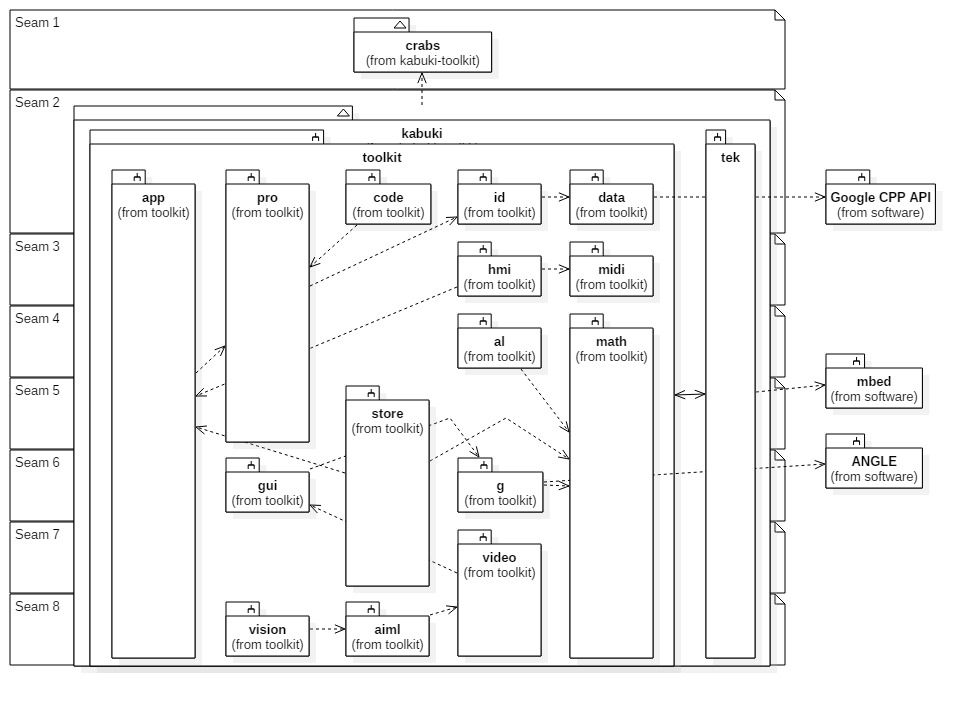
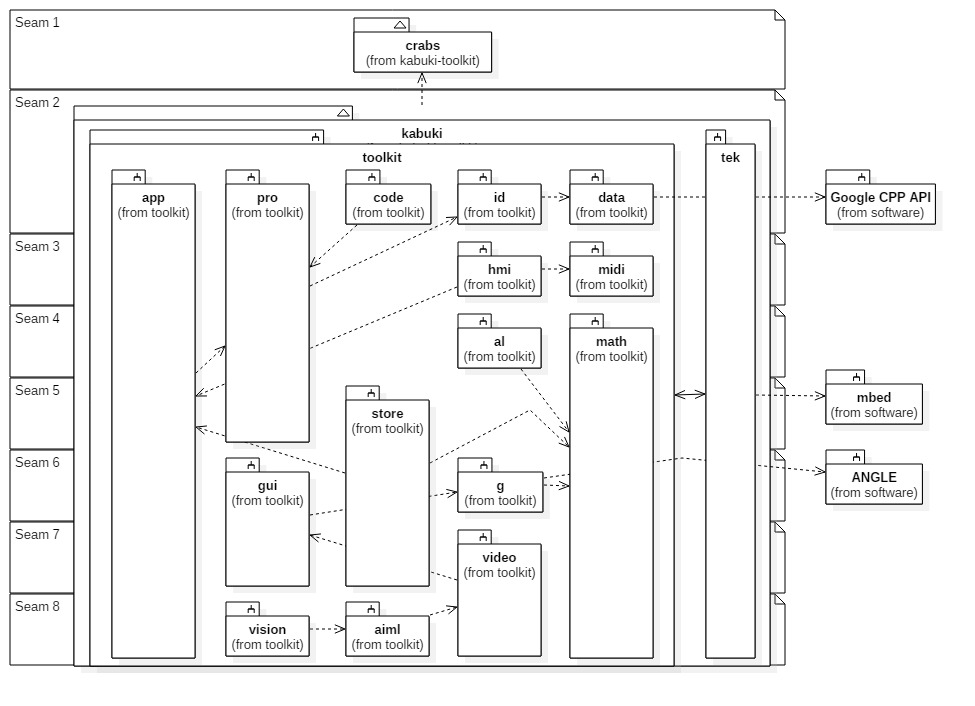
SEAM_1_3: Debugged Stack. #15

diff --git a/README.md b/README.md
@@ -47,7 +47,7 @@ The Chinese Room is a famous artificial intelligence philosophy thought experime
 |    pro | Projects, tasks, and scheduling library. |
 |  store | Store and inventory library. |
 
-### Kabuki VM Major Seams
+### Kabuki VM Package and Seam Diagram
 
 ![Kabuki VM Package and Seam Diagram](https://raw.githubusercontent.com/kabuki-starship/kabuki-toolkit/master/docs/kabuki_vm_package_diagram.jpg)
 
